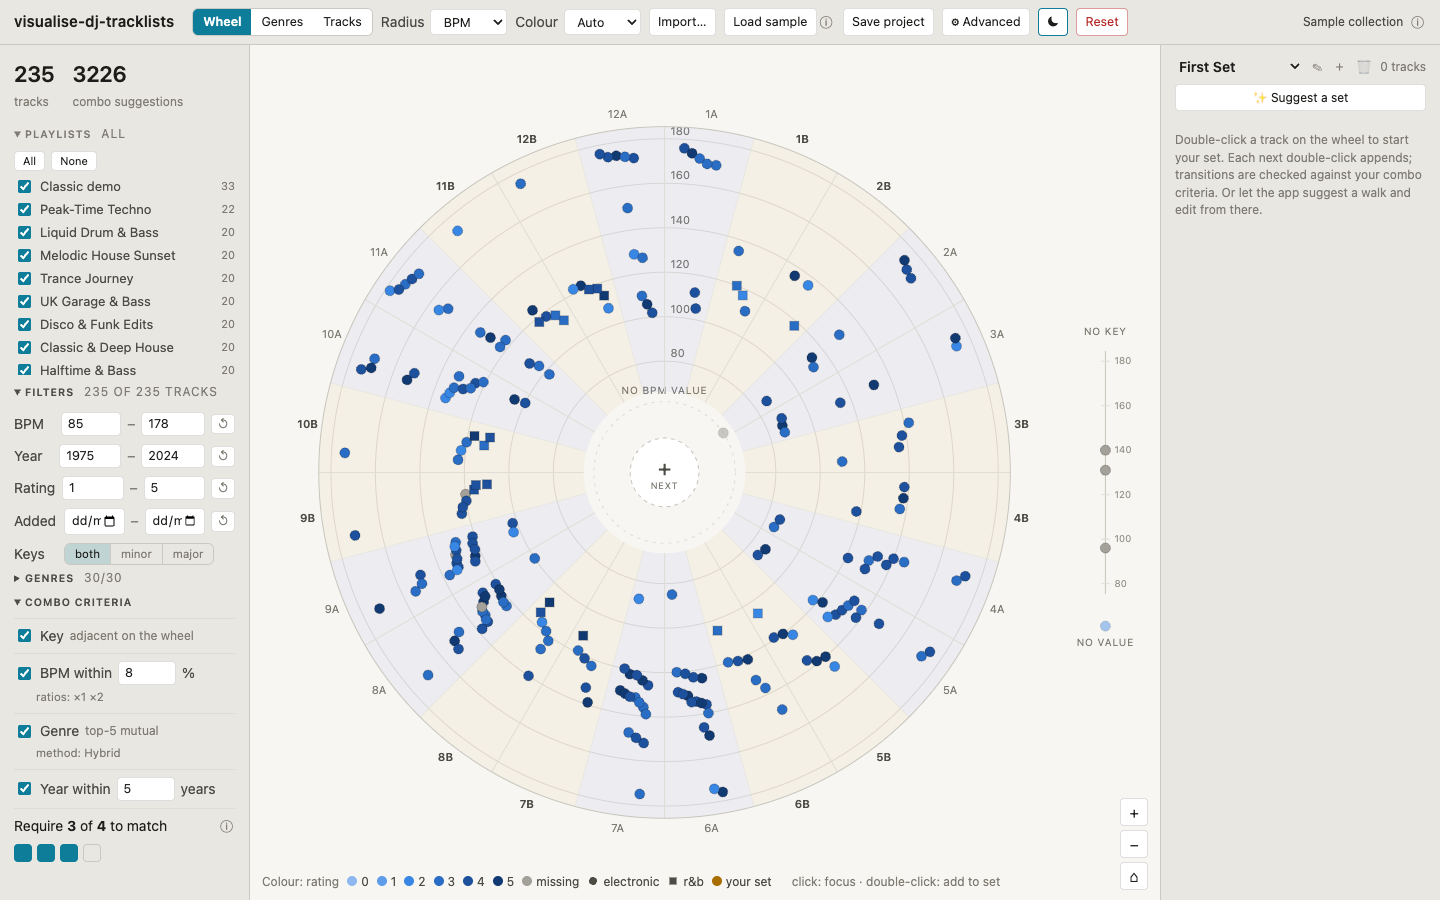
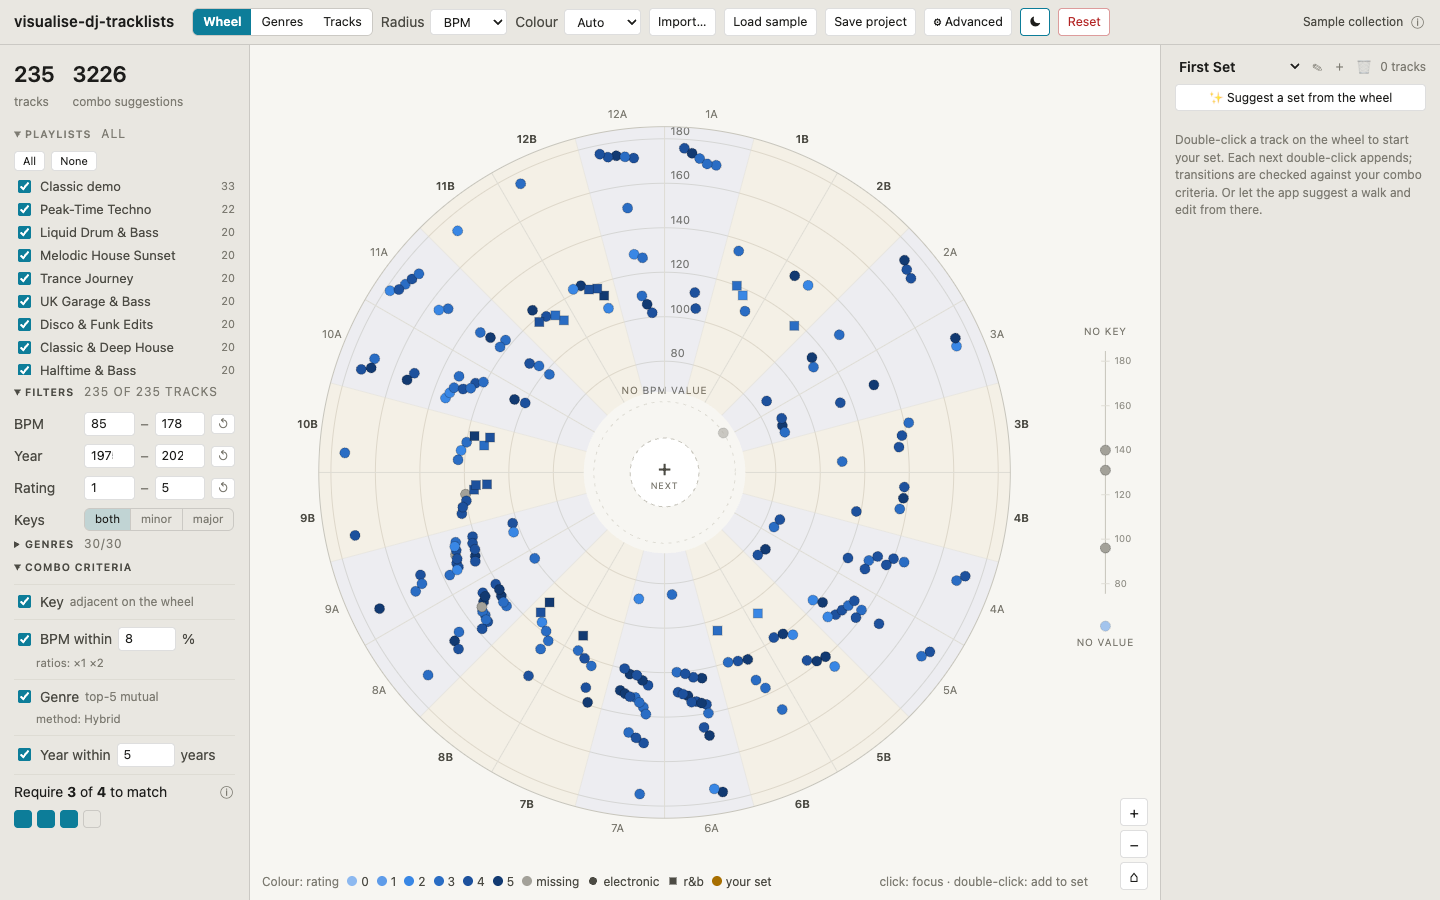
v11 verification: E2E covers the new flows, screenshots and README refreshed
The E2E exercises the default-filter revert, the sample's status ⓘ,
threshold-to-zero (complete-graph stat), the Track properties table (27
rows), reset-confirmation cancel, pinned tooltips with reachable
citation links, header-icon alignment, set-only mode guards, playlist-
icon degradation below the cap, dim-not-disabled off-wheel selects, the
⚡ force-a-set flow, and the honest clear dialog — full run with zero
console errors. Fixes a bug the flow caught: suggest() creating a new
set reset the force window before it could show (the window now keys on
the set the suggestion wrote). Six README screenshots refreshed.

diff --git a/src/lib/TracklistPanel.svelte b/src/lib/TracklistPanel.svelte
@@ -89,14 +89,18 @@
 
   // When a suggestion stops short of the target length, the button morphs
   // into a force variant (v11 issue 16b) — mirroring the wheel hub — and a
-  // notice reports how many steps had to break the criteria. Both reset on
-  // the next ordinary suggest or set switch.
+  // notice reports how many steps had to break the criteria. The window is
+  // tied to the set the suggestion wrote (a suggest may itself CREATE a set
+  // via addSet, so a bare on-id-change reset would wipe it immediately);
+  // navigating to any other set closes it.
   let shortBy = $state(0)
   let forcedSteps = $state<number | null>(null)
+  let forceForSetId = $state<string | null>(null)
   $effect(() => {
-    void $activeSet.id // dependency: switching sets closes the force window
-    shortBy = 0
-    forcedSteps = null
+    if ($activeSet.id !== forceForSetId) {
+      shortBy = 0
+      forcedSteps = null
+    }
   })
 
   function suggest(force = false) {
@@ -113,6 +117,7 @@
       force,
     })
     setGeneratedTracklist(walk.ids)
+    forceForSetId = $activeSet.id
     shortBy = force ? 0 : Math.max(0, $settings.suggestLength - walk.ids.length)
     forcedSteps = force ? walk.forced : null
   }

diff --git a/README.md b/README.md
@@ -36,7 +36,10 @@ Your library never leaves your machine — there is no backend, no account, no u
   deterministic, and never reshuffled by criterion changes), your selected
   **playlists** (first one wins), or similarity **clusters** in the hybrid space —
   capped by a "max symbol classes" setting (1–8); past the cap, smaller genre
-  families **merge into their umbrella** in the tree rather than dropping to circles.
+  families **merge into their umbrella** in the tree rather than dropping to
+  circles. Playlists have no umbrella to merge into, so a cap below the selected
+  playlist count drops the distinction entirely — all circles, no legend — rather
+  than showing a misleading partial set.
 - **Nodes that hold still**: every track's angle is a property of your _library_,
   not of the current filters — filtering and playlist toggling only make nodes
   appear or disappear, leaving gaps in the same-key fans, so nothing ever shuffles
@@ -54,10 +57,11 @@ Your library never leaves your machine — there is no backend, no account, no u
   make no distinction. Rating and year rings only sit on whole values.
 - **Map the genres**: a second central view (Wheel | Genres | Tracks switch) lays your
   library's genres out with a force simulation — screen distance approximates the
-  distance measure, and you can **grab a node anywhere and drag it** to jiggle the
-  clusters, the neighbours settling around it (panning stays on the background; the
-  re-layout eases in slowly enough to follow). Node icons here always follow the
-  **curated genre families**, with a shape legend at the bottom.
+  distance measure, and you can **grab a node and drag it — the whole graph leans
+  after it** through empty space (gravity is towed along with the drag) and drifts
+  home when you let go (panning stays on the background; the re-layout eases in
+  slowly enough to follow). Node icons here always follow the **curated genre
+  families**, with a shape legend at the bottom.
   **One method's edge overlay draws at a time** — it follows your active criterion
   method (drawing exactly the pairs the criterion links, k/threshold included), or
   pick another on the chips; switching never leaves the old overlay stacked.
@@ -67,31 +71,40 @@ Your library never leaves your machine — there is no backend, no account, no u
 - **Browse the tracks**: the third central view is a classic sortable table of
   everything the wheel shows — playlists AND filters scope it — with every column
   sortable (keys in Camelot order, missing values last, ratings as stars), and the
-  sort survives view switches. Pick **which columns show** in the advanced menu —
-  **every metadata field the Rekordbox XML carries** is available, 26 columns from
-  Artist to Play count to Bit rate — and **drag the headers** to reorder them; a
-  hidden column remembers its place. Clicking a row selects it everywhere and
-  highlights its combo neighbours. Two leading cells: a **single star that cycles
-  on click** — essential (must-include) → opener ⏮ → closer ⏭ → off, skipping the
-  opener/closer stage when another track already holds it (tagged tracks wear a
-  subtle ring on the wheel); and a **＋ cell that appends to the set and turns into
-  the track's position number(s)** — hover it for a ✕ that takes the track out
-  again. The header ★ (revealed on header hover) stars the whole view at once, and
-  a toggle on the position header flips the table to **just this set, in order,
-  with every metadata column** — the set panel's list, fleshed out.
-- **Filter**: a **Date-added** range shows by default; BPM / year / rating ranges are
-  opt-in via a **"Filters shown" checklist** in the advanced menu (hiding one also
-  clears it). A **both/minor/major** switch shows one Camelot ring only (the excluded
-  ring's sector tint fades out so the wheel visibly answers), and a **Genres section**
-  of its own — a checklist **scoped to the selected playlists** with a live count —
-  decide what participates in the graph at all. Numeric ranges pre-fill with the whole
-  numbers just outside the selected playlists' actual extremes, reset to them with a ↺
-  per range (and whenever you toggle playlists), and a min can never cross its max. The
-  filter header counts visible tracks against the playlist selection.
+  sort survives view switches. Every track property — **27 of them, everything the
+  Rekordbox XML carries**, from Artist to Play count to file Location — has a row
+  in the advanced **"Track properties" table** with two checkboxes: **shown as a
+  column** here, and **shown as a filter** in the left panel. **Drag the headers**
+  to reorder columns; a hidden column remembers its place. Clicking a row selects
+  it everywhere and highlights its combo neighbours. Two leading cells: a **single
+  star that cycles on click** — essential (must-include) → opener ⏮ → closer ⏭ →
+  off, skipping the opener/closer stage when another track already holds it
+  (tagged tracks wear a subtle ring on the wheel); and a **＋ cell that appends to
+  the set and turns into the track's position number(s)** — hover it for a ✕ that
+  takes the track out again. The header ★ (revealed on header hover, aligned over
+  the row stars) stars the whole view at once, and a ☰ toggle on the position
+  header flips the table to **just this set, in order, with every metadata
+  column** — the set panel's list, fleshed out (it disables while the set is
+  empty, and the sort triangle hides while set order rules).
+- **Filter on anything**: BPM / year / rating ranges show by default; **any other
+  property** joins them via the Track-properties table (hiding a filter also
+  clears it). Text properties filter by **prefix range** — artists from "b" to
+  "k" keeps Kraftwerk — dates by range (undated tracks hide while a date filter
+  is active), and the key by **Camelot number** (8–12 hits both rings), composing
+  with the **both/minor/major** ring switch (the excluded ring's sector tint
+  fades out so the wheel visibly answers). A **Genres section** of its own — a
+  checklist **scoped to the selected playlists** with a live count — decides what
+  participates in the graph at all. Numeric ranges pre-fill with the whole
+  numbers just outside the selected playlists' actual extremes, reset to them
+  with a ↺ per range (and whenever you toggle playlists), and a min can never
+  cross its max. The filter header counts visible tracks against the playlist
+  selection.
 - **Tune the criteria**: key / BPM / genre / year each toggleable and ranged (the
   parameters stay editable even while a criterion is switched off); an edge appears
   when at least _N_ of the enabled criteria match, _N_ set with a **row of boxes**
-  (fill as many as you require). Missing metadata never blocks a combo. The BPM
+  (fill as many as you require — down to **zero**, where everything connects;
+  enabling another criterion keeps a "require all" bar at "require all"). Missing
+  metadata never blocks a combo. The BPM
   tolerance defaults to **±8%** — the pitch range of a classic
   Technics fader — and goes down to **0% for exact matches**. BPM matches at every
   enabled **metric ratio**: unit time (1:1, on by default — switch it off to isolate
@@ -128,10 +141,13 @@ Your library never leaves your machine — there is no backend, no account, no u
   shows the **active set's name** over up to **eight named sets** — ＋ counts
   onward from what you have ("Third Set" after two renamed ones), ✎ renames inline
   (clashes auto-suffix to "Name (2)"), and a subtle ✨ badge marks a set that is
-  untouched generator output. **✨ Suggest** regenerates such a set **in place**
-  (Cmd+Z steps back through the previous suggestions) and starts a **new set** when
-  the current one is hand-edited — your work is never overwritten. All sets persist
-  with the project.
+  untouched generator output. **✨ Suggest a set from the wheel** regenerates such
+  a set **in place** (Cmd+Z steps back through the previous suggestions) and
+  starts a **new set** when the current one is hand-edited — your work is never
+  overwritten. When the criteria run out before the target length, the button
+  morphs into **⚡ Force to N** — like the hub's force, it fills the remaining
+  steps with the closest rule-breaking picks (still weighted by adventurousness)
+  and reports how many transitions were forced. All sets persist with the project.
 - **Shape the generated order**: pick the opening/closing track and the essential
   (must-include) tracks in the **Tracks view** — the same pins as 📌 on the set's
   first/last rows; with both ends set, the walk grows from both ends inward. The
@@ -146,9 +162,12 @@ Your library never leaves your machine — there is no backend, no account, no u
   path, the genre map, even the native checkboxes and sliders — not just the nodes;
   a ☀/☾ switch flips between the dark and light theme (fresh visitors follow the
   system preference), and a **Return to default settings** button at the panel's
-  foot resets everything the panel owns (your filters, sets and theme survive).
-  The top bar stays lean: the imported collection's name plus an ⓘ whose tooltip
-  holds the import details.
+  foot resets everything the panel owns — after a confirmation (your filters, sets
+  and theme survive). Controls that don't affect the current view **dim but stay
+  adjustable**. The top bar stays lean: the imported collection's name plus an ⓘ
+  whose tooltip holds the import details (the sample collection raises one too).
+  Every ⓘ in the app also **pins open on click** — links inside stay reachable —
+  and positions itself to never clip at a panel edge.
 - **Take it with you**: export the set as M3U8 (Rekordbox re-imports it) or CSV; save
   the whole project as JSON — every export asks for a filename first. Everything
   autosaves to the browser; a Reset button (with confirmation) wipes the slate.
